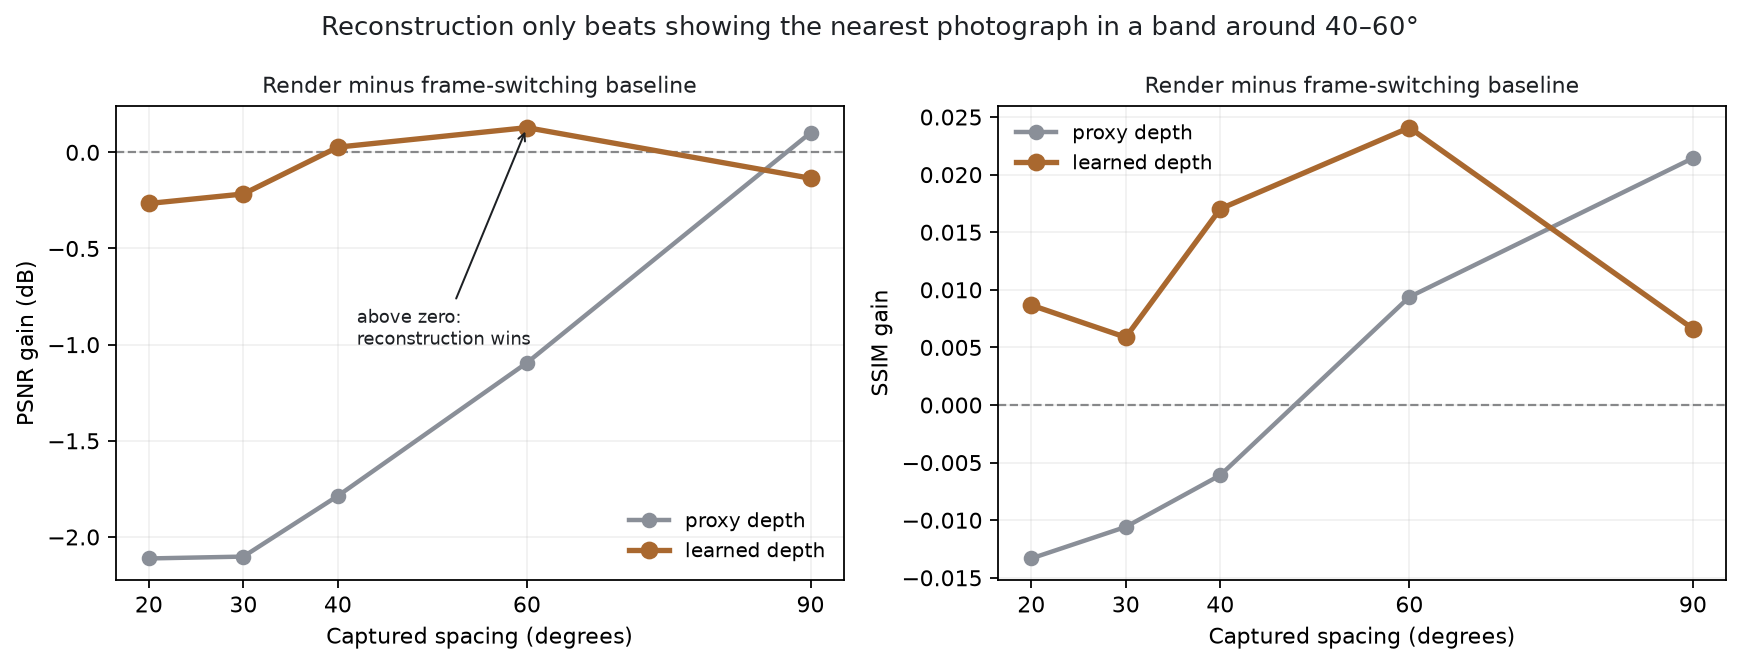
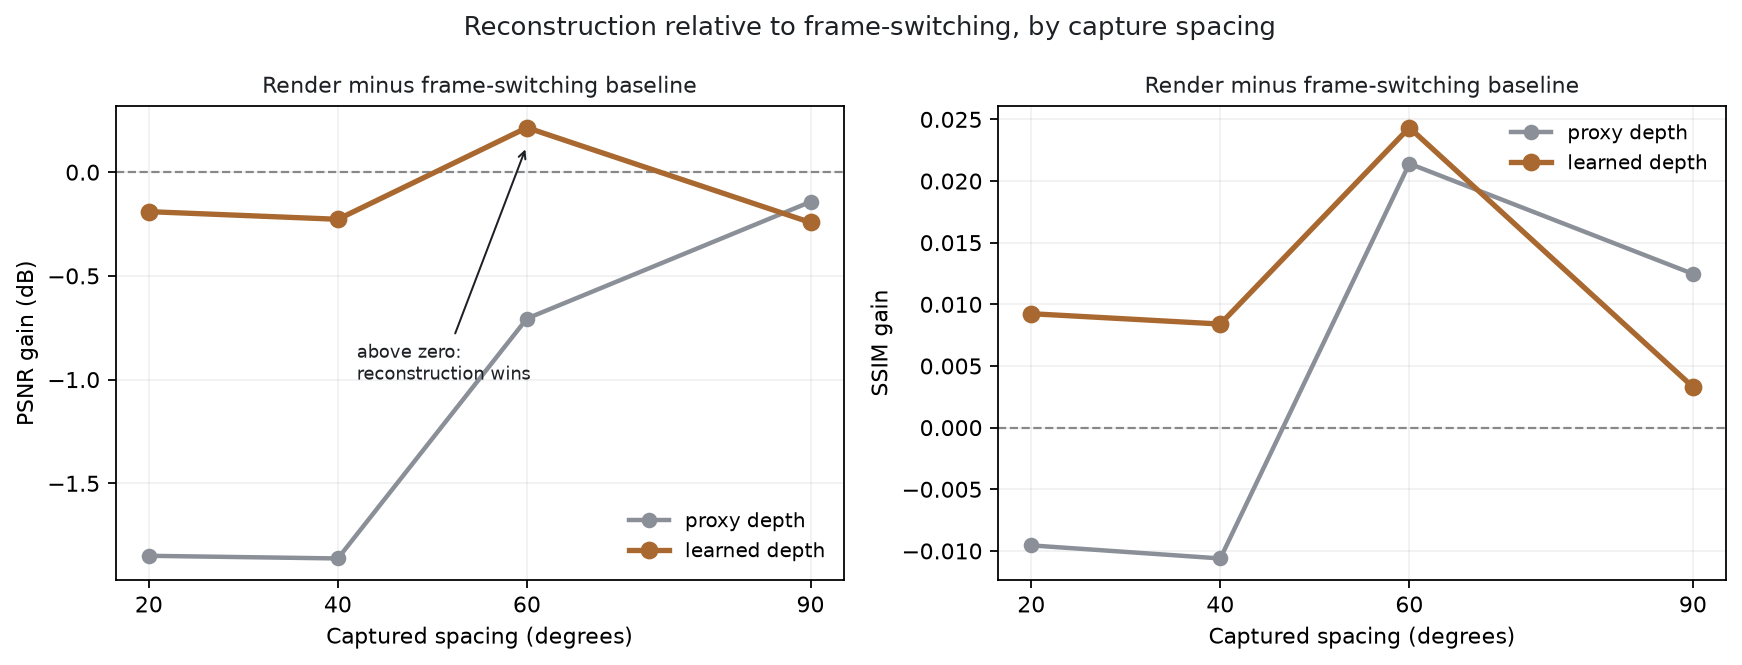
Update full-ring results and presentation checkpoint

diff --git a/src/make_figures.py b/src/make_figures.py
@@ -35,7 +35,20 @@ MODEL_C = "#A9682F"
 
 def figure_crossover(path: Path) -> None:
     """Gain over the frame-switching baseline, against capture spacing."""
-    rows = list(csv.DictReader(open(PROJECT_ROOT / "output/metrics/depth_comparison.csv")))
+    rows = []
+    for every in (2, 4, 6, 9):
+        proxy = next(csv.DictReader(open(PROJECT_ROOT / f"output/metrics_e{every}/summary.csv")))
+        model = next(csv.DictReader(open(PROJECT_ROOT / f"output/full_e{every}/summary.csv")))
+        baseline_psnr = float(model["psnr_baseline_mean_db"])
+        baseline_ssim = float(model["ssim_baseline_mean"])
+        rows.append({
+            "captured_spacing_deg": model["captured_spacing_deg"],
+            "psnr_gain_proxy_db": float(proxy["psnr_render_mean_db"]) - baseline_psnr,
+            "psnr_gain_model_db": float(model["psnr_render_mean_db"]) - baseline_psnr,
+            "ssim_render_proxy": proxy["ssim_render_mean"],
+            "ssim_render_model": model["ssim_render_mean"],
+            "ssim_baseline": baseline_ssim,
+        })
     x = [float(r["captured_spacing_deg"]) for r in rows]
     series = (
         ("psnr_gain_proxy_db", "psnr_gain_model_db", "PSNR gain (dB)"),
@@ -63,7 +76,7 @@ def figure_crossover(path: Path) -> None:
     axes[0].annotate("above zero:\nreconstruction wins", xy=(60, 0.13), xytext=(42, -1.0),
                      fontsize=8, color=INK,
                      arrowprops=dict(arrowstyle="->", color=INK, lw=.9))
-    fig.suptitle("Reconstruction only beats showing the nearest photograph in a band around 40–60°",
+    fig.suptitle("Reconstruction relative to frame-switching, by capture spacing",
                  fontsize=11.5, color=INK)
     fig.tight_layout()
     fig.savefig(path, dpi=160, bbox_inches="tight")
@@ -74,7 +87,6 @@ def figure_crossover(path: Path) -> None:
 def figure_qualitative(path: Path, angles=(50, 110, 170, 230), every: int = 4, size: int = 240) -> None:
     """What the score actually compares: truth, render, and baseline."""
     frames = {int(p.stem): p for p in (PROJECT_ROOT / "data").glob("*.jpeg") if p.stem.isdigit()}
-    frames.pop(300, None)
     captured = sorted(frames)[::every]
     cache = PROJECT_ROOT / "output/model_e4/meshes"
 

diff --git a/src/evaluate.py b/src/evaluate.py
@@ -22,8 +22,8 @@ them is like for like even though the absolute values are conservative.
 
 Usage
 -----
-    python src/evaluate.py --frames data --every 2 --out output/metrics
-    python src/evaluate.py --frames data --every 2 --exclude 300
+    python src/evaluate.py --frames data --every 2 --depth-mode model --out output/full_e2
+    python src/evaluate.py --frames data --every 4 --depth-mode model --out output/full_e4
 """
 
 from __future__ import annotations

diff --git a/CLAUDE.md b/CLAUDE.md
@@ -22,10 +22,12 @@ photographs, i.e. Szeliski Chapter 14, image-based rendering.
 | Novel-view renderer (`render3d.py`) | **Done**, tested, measured |
 | Reconstruction (`reconstruct.py`) | **Done**, both paths. Learned depth runs locally — `torch` is installed and Depth Anything V2 Small uses MPS, ~3 s a frame |
 | Progress demo (`run_progress_demo.py`) | **Done** — end-to-end on a synthetic proxy |
+| Presentation demo (`demo.sh`) | **Done** — seven-step live walkthrough on the real frog; learned depth runs cache-only after warm-up |
 | Unit test (`tests/test_pipeline.py`) | **Passing** |
-| Real frog photographs | **Both shoots done** — 5 hero shots plus a closed 36-frame turntable ring in `data/`, all 36 segmenting cleanly |
-| Hold-out evaluation (`src/evaluate.py`) | **Done and run** — see `output/metrics/` |
-| Multi-view / structure-from-motion | **Not started** |
+| Real frog photographs | **Both shoots done** — 5 hero shots, a closed 36-frame turntable ring, and 9 elevated photographs in `data/`; all 36 ring frames segment cleanly |
+| Hold-out evaluation (`src/evaluate.py`) | **Done and run** — full-ring runs are in `output/full_e*/` |
+| Explicit reconstruction | **Done** — Apple Object Capture accepted all 45 ring/elevated photographs; 25,008 vertices, 49,999 triangles |
+| Custom multi-view / structure-from-motion | **Not started** — Object Capture is used only as a black-box comparison |
 | Classifier (`scraper.py`, `training/train.py`) | **Not started.** Carried over from an earlier topic |
 | Workshop station | **Not started** |
 
@@ -89,7 +91,8 @@ scraper.py            dataset collection for the classifier (not started)
 training/train.py     MobileNetV2 transfer learning (not started)
 docs/                 progress report (.docx) and the presentation script
 outputs/              contact sheet + metrics from the demo (evidence)
-output/metrics/       hold-out CSVs — the only source for numbers in the paper
+output/full_e*/       full-ring hold-out CSVs — the source for Table III
+output/metrics/       earlier sweep and figure caches; check exclusions before reuse
 data/                 photographs — gitignored, stays local
 ```
 
@@ -103,8 +106,10 @@ earned its reconstruction stage.
 
 ### Two claims are supported. Do not write more than these.
 
-**1. Learned depth beats the shape proxy, decisively.** Mean render quality rises
-+1.31 dB across every spacing tested. Large, consistent, not marginal.
+**1. Learned depth improves on the shape proxy only while the relief still has
+useful geometry.** Render quality rises +1.66 dB at 20° spacing and +1.64 dB at
+40°, but falls to −0.10 dB at 90°, where the relief has little of the object
+left to show. Do not describe this gain as consistent across spacings.
 
 **2. At 60° spacing the render is structurally closer to the withheld photograph
 than frame-switching is:** ΔSSIM **+0.024, 95% CI [+0.014, +0.035]**, n=30,
@@ -138,11 +143,12 @@ sharp pixels and the baseline is a *real photograph* at the wrong angle, while
 SSIM compares structure and the render is at the right angle. For novel-view
 synthesis, structure is the property that matters.
 
-Every number here comes from one eye-level ring. Nothing has looked down on the
-frog yet.
+Every hold-out number here comes from one eye-level ring. Nine elevated
+photographs were used by the explicit reconstruction, but they are not a closed
+ring and do not enter the hold-out evaluation.
 
-Frame 300° is excluded from every run — the operator's hand is in the shot. Say
-so in the paper rather than quietly dropping it.
+Frame 300° was re-shot after the operator's hand entered the original. The
+replacement is included throughout the full 36-frame results.
 
 ## Running it
 
@@ -152,13 +158,20 @@ pip install -r requirements.txt          # numpy + opencv only
 python run_progress_demo.py              # regenerates outputs/
 python tests/test_pipeline.py            # unittest, not pytest
 
-# once real photos exist
-python reconstruct.py data/frog/single/front.jpg --out model3d/frog
-python render3d.py model3d/frog.obj --frames 36 --sweep 360 --video --out outputs/frog
+# real single-image relief
+python reconstruct.py data/90.jpeg --depth-mode model --out model3d/frog
+python render3d.py model3d/frog.obj --frames 9 --sweep 80 --video --out outputs/frog
+
+# full turntable only from the closed Object Capture mesh
+python render3d.py model3d/frog_combined.obj --frames 36 --sweep 360 --video --out outputs/frog_3d
 ```
 
-Learned depth needs `requirements-depth.txt` (torch + transformers). There is no
-GPU on the dev machine — run that stage on Colab and bring the `.obj` back.
+Learned depth needs `requirements-depth.txt` (torch + transformers). It runs
+locally on Apple silicon through MPS in about three seconds per frame. The first
+run downloads about 100 MB; warm the presentation cache with
+`DEMO_ALLOW_DOWNLOAD=1 ./demo.sh 3`. Normal `demo.sh` runs cache-only so a poor
+venue connection cannot stall it. `colab_depth.ipynb` remains a fallback for a
+machine without `torch`.
 
 ## Gotchas
 
@@ -173,8 +186,7 @@ GPU on the dev machine — run that stage on Colab and bring the `.obj` back.
 - The morphology kernel in `_refine` is deliberately small. Enlarging it closes
   the hollow resonator cavity, but it also bridges the frog to the table it
   stands on when the two are similar in tone — tested and rejected.
-- `data/**` is gitignored. Photographs stay local — do not commit ~112 turntable
-  images.
+- `data/**` is gitignored. The source photographs stay local; do not commit them.
 - Y-up mesh vs Y-down image coordinates: `render3d.py` flips this internally. If
   a render comes out mirrored, that is where to look.
 - **Depth convention: larger value = further from the camera.** `build_mesh`
@@ -187,15 +199,17 @@ GPU on the dev machine — run that stage on Colab and bring the `.obj` back.
 
 ## Next step
 
-Shoot rings 2 and 3, at ~30° and ~60° camera elevation. Every result so far
-comes from a single eye-level ring, and the evaluation has now put a number on
-what that costs: past ~60° of spacing the relief has nothing left to show. A
-comparable project reconstructed its subject from one eye-level ring and the
-roof came back as a hole for exactly this reason.
+Build the workshop station, the remaining deliverable. The current renderer is
+suited to offline animation rather than live interaction, so the station needs
+mesh reduction, a faster rasterisation path, or a deliberately pre-rendered
+interaction.
 
-After that, multi-view reconstruction (COLMAP or Apple Object Capture) becomes
-possible, and the same `src/evaluate.py` scores it against the same withheld
-photographs — so the mesh and the relief compare on one footing.
+Full closed rings at additional camera elevations remain an optional extension
+for hold-out evaluation. The 9 elevated photographs already helped Apple Object
+Capture produce a closed mesh, but every current hold-out number comes from the
+eye-level ring. Do not compare that mesh against those photographs as if it were
+prediction: all 45 photographs went into building it, so such a score measures
+fit instead.
 
 ## Why this subject
 

diff --git a/README.md b/README.md
@@ -34,7 +34,7 @@ python -m unittest discover -s tests -v
 ## Measured results
 
 ```bash
-python src/evaluate.py --frames data --every 4 --exclude 300 --depth-mode model
+python src/evaluate.py --frames data --every 4 --depth-mode model
 python src/make_figures.py        # writes figures/
 ```
 
@@ -46,13 +46,16 @@ has not earned its reconstruction stage.
 
 Two claims are supported, and no more:
 
-- **Learned depth beats the shape proxy** — mean render quality **+1.31 dB**,
-  consistent across every spacing tested.
+- **Learned depth improves on the shape proxy where the relief still has useful
+  geometry** — render quality is **+1.66 dB at 20°** and **+1.64 dB at 40°**,
+  but falls to **−0.10 dB at 90°**, where the relief has little of the object
+  left to show.
 - **At 60° spacing the render is structurally closer to the withheld photograph
   than frame-switching is** — ΔSSIM **+0.024**, 95% CI [+0.014, +0.035], n=30.
 
 **No PSNR difference is significant at any spacing**; every interval spans zero.
-Frame 300° is excluded from every run because the operator's hand is in the shot.
+Frame 300° was re-shot after the operator's hand entered the original; the
+replacement is included throughout the full 36-frame results.
 The CSVs in `output/` are the only source for figures quoted in the report — see
 `CLAUDE.md` for why intervals are reported rather than differences of means.
 
@@ -73,9 +76,10 @@ The CSVs in `output/` are the only source for figures quoted in the report — s
 
 ## What remains pending
 
-- turntable rings 2 and 3, at ~30° and ~60° camera elevation. Every result so
-  far comes from a single eye-level ring
-- the optional classifier and the workshop interface
+- the workshop interface — the remaining deliverable
+- optional extensions: full closed rings at additional camera elevations and
+  the classifier. Nine elevated photographs already support the explicit
+  reconstruction, but the hold-out results come from the eye-level ring
 
 ## Learned depth on a real frog photo
 
@@ -86,11 +90,19 @@ same thing on Colab for a machine without `torch`.
 
 ```bash
 python -m pip install -r requirements-depth.txt
-python reconstruct.py data/frog_front.jpg \
+python reconstruct.py data/90.jpeg \
   --depth-mode model \
   --out model3d/frog \
   --relief 0.35 \
   --grid 120
+```
+
+For the presentation demo, warm the cache once while online; normal demo runs
+then use the cache without making network requests:
+
+```bash
+DEMO_ALLOW_DOWNLOAD=1 ./demo.sh 3
+./demo.sh
 ```
 
 Render a novel-view arc for the single-image relief:
@@ -125,6 +137,8 @@ model3d/               OBJ, MTL, texture, mask, and depth outputs
 output/                hold-out metric CSVs - the source for report figures
 outputs/               contact sheet and demo metrics
 figures/               report figures
-docs/                  progress reports and the presentation script
+docs/demo_script.md    current four-minute demonstration script
+docs/presentation_script.md  archived pre-capture presentation script
+docs/*.docx            progress reports
 CAPTURE.md             photography protocol
 ```

diff --git a/docs/demo_script.md b/docs/demo_script.md
@@ -4,9 +4,11 @@ Run `./demo.sh` and press Enter between steps. Total compute is about 16 seconds
 the rest of the time is talking. Every slow stage was run beforehand and is read
 back from the file it wrote, and the script prints the command that produced it.
 
-**Before you start:** terminal font large, `demo.sh` already `cd`-ed into the
-project, and run it once through so the depth model's weights are cached. On a
-cold cache step 3 downloads about 100 MB.
+**Before you start:** terminal font large and `demo.sh` already `cd`-ed into the
+project. While online, warm the depth-model cache once with
+`DEMO_ALLOW_DOWNLOAD=1 ./demo.sh 3`; a cold cache downloads about 100 MB. The
+normal demo runs step 3 in cache-only mode so a poor venue connection cannot
+stall it with network retries. Then run the complete demo once through.
 
 ---
 
@@ -87,10 +89,10 @@ only caught it by looking at the mask.
 
 ## 2:40 – 3:20 · Why one photograph is not enough
 
-**Run step 6.** → relief keeps 0.4% behind; mesh keeps 43.1%.
+**Run step 6.** → relief keeps 0.8% behind; mesh keeps 43.1%.
 
 > "Single-image reconstruction gives a relief, not a solid. Swing the camera
-> behind it and almost nothing survives — under half a per cent of its triangles.
+> behind it and almost nothing survives — under one per cent of its triangles.
 >
 > The same photographs through Apple's Object Capture give a closed surface:
 > twenty-five thousand vertices, eighty seconds, no GPU and no cloud. Behind it,
@@ -153,4 +155,4 @@ the closing question.
 **"Can you compare the mesh's score with the relief's?"**
 > No, and we say so in the report. Every photograph scored against the mesh also
 > went into building it, so it measures fit rather than prediction. The
-> comparison we can make is coverage: 43 per cent against 0.4.
+> comparison we can make is coverage: 43.1 per cent against 0.8.

diff --git a/docs/presentation_script.md b/docs/presentation_script.md
@@ -2,6 +2,10 @@
 
 A walkthrough of the report: the subject, the method, and current status.
 
+> **Archived pre-capture script.** It describes the earlier checkpoint before
+> the frog photographs and learned-depth evaluation existed. For the current
+> 31 August checkpoint and measured results, use [`demo_script.md`](demo_script.md).
+
 ---
 
 ## 0:00 – 0:40 · Subject
